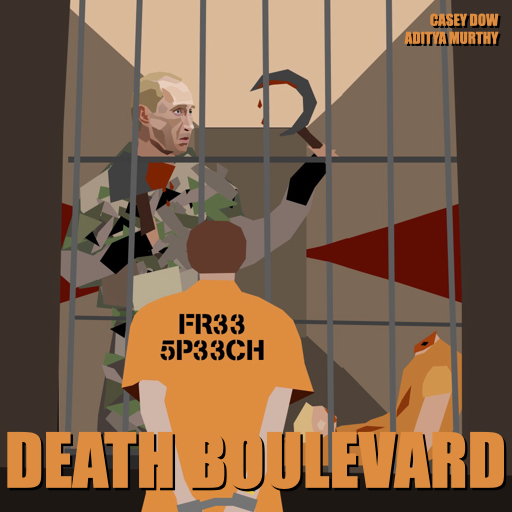
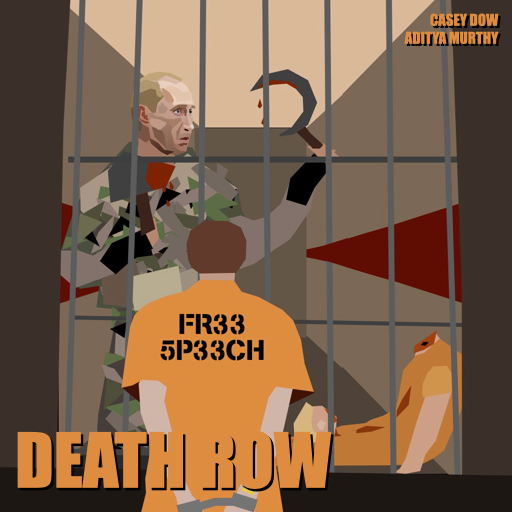
Updated Art

Changed region(s): [[0.0, 0.8438, 1.0, 0.9688]]

diff --git a/index.html b/index.html
@@ -1,7 +1,7 @@
 <!DOCTYPE html>
 <html lang="ru">
 <head>
-  <title>Russia Project</title>
+  <title>Punk Music Project</title>
   <meta charset="UTF-8">
   <meta name="viewport" content="width=device-width, initial-scale=1">
   <link rel="stylesheet" href="./index.css">
@@ -22,10 +22,10 @@
   <div id="t">
     <img src="album.jpeg" id="album">
     <div id="info">
-      <h1>Death Boulevard</h1>
+      <h1>Death Row</h1>
       <h2>Casey & Aditya</h2>
-      <p style="color: #edc">
-Russia isn't free. That's a fact.<br>So what are you going to do about it? Protest. Speak up. People may not be able to see the truth through Putin's media control, but you have the facts. People won't want to believe you. Police won't want to hear you. But it's better to live a short, free life than none at all.
+      <p style="color: #edc">[Parody of Boulevard of Broken Dreams]</p>
+      <p style="color: #edc; margin-top: 15px">Russia isn't free. That's a fact.<br>So what are you going to do about it? Protest. Speak up. People may not be able to see the truth through Putin's media control, but you have the facts. People won't want to believe you. Police won't want to hear you. But it's better to live a short, free life than none at all.
       </p>
     </div>
   </div>
@@ -51,8 +51,7 @@ Russia isn't free. That's a fact.<br>So what are you going to do about it? Prote
 - Putin rigs the elections in other ways. By changing the way Duma seats are elected, his party recieved 72% of the seats with less than 50% of the vote in 2021
 - Putin has banned extremist organizations from elections and uses a vote threshold to secure even more seats while destroying smaller parties
 - Putin controls the government from the top down, such that no person in power is independent
-And so much more...
-  </p></span>
+And so much more...</p></span>
     </details>
   </div>
 

diff --git a/index.css b/index.css
@@ -55,17 +55,17 @@ p {
 
 #t {
   width: 100vw;
-  background-color: #200;
+  background-color: #500;
   background-image: linear-gradient(to right, #200, #500);
   display: flex;
   min-height: 28vw;
   top: 0;
+  flex-wrap: wrap;
 }
 
 #footer {
   width: 100vw;
-  background-color: #200;
-  background-image: linear-gradient(to right, #200, #500);
+  background-color: #500;
   display: flex;
   min-height: 10vw;
   top: 0;
@@ -102,16 +102,29 @@ p {
 #album {
   width: 20vw;
   height: 20vw;
-  position: absolute;
-  top: 4vw;
-  left: 14vw;
+  display: block;
+  margin-top: 4vw;
+  margin-left: 14vw;
 }
 
 #info {
   width: 50vw;
   display: block;
   margin-top: 4vw;
-  margin-left: 38vw;
+  margin-left: 4vw;
+}
+
+@media (orientation: portrait) {
+  #album {
+    width: 40vw;
+    height: 40vw;
+    margin-left: 30vw;
+  }
+
+  #info {
+    width: 80vw;
+    margin-left: 10vw;
+  }
 }
 
 #lyrics {
